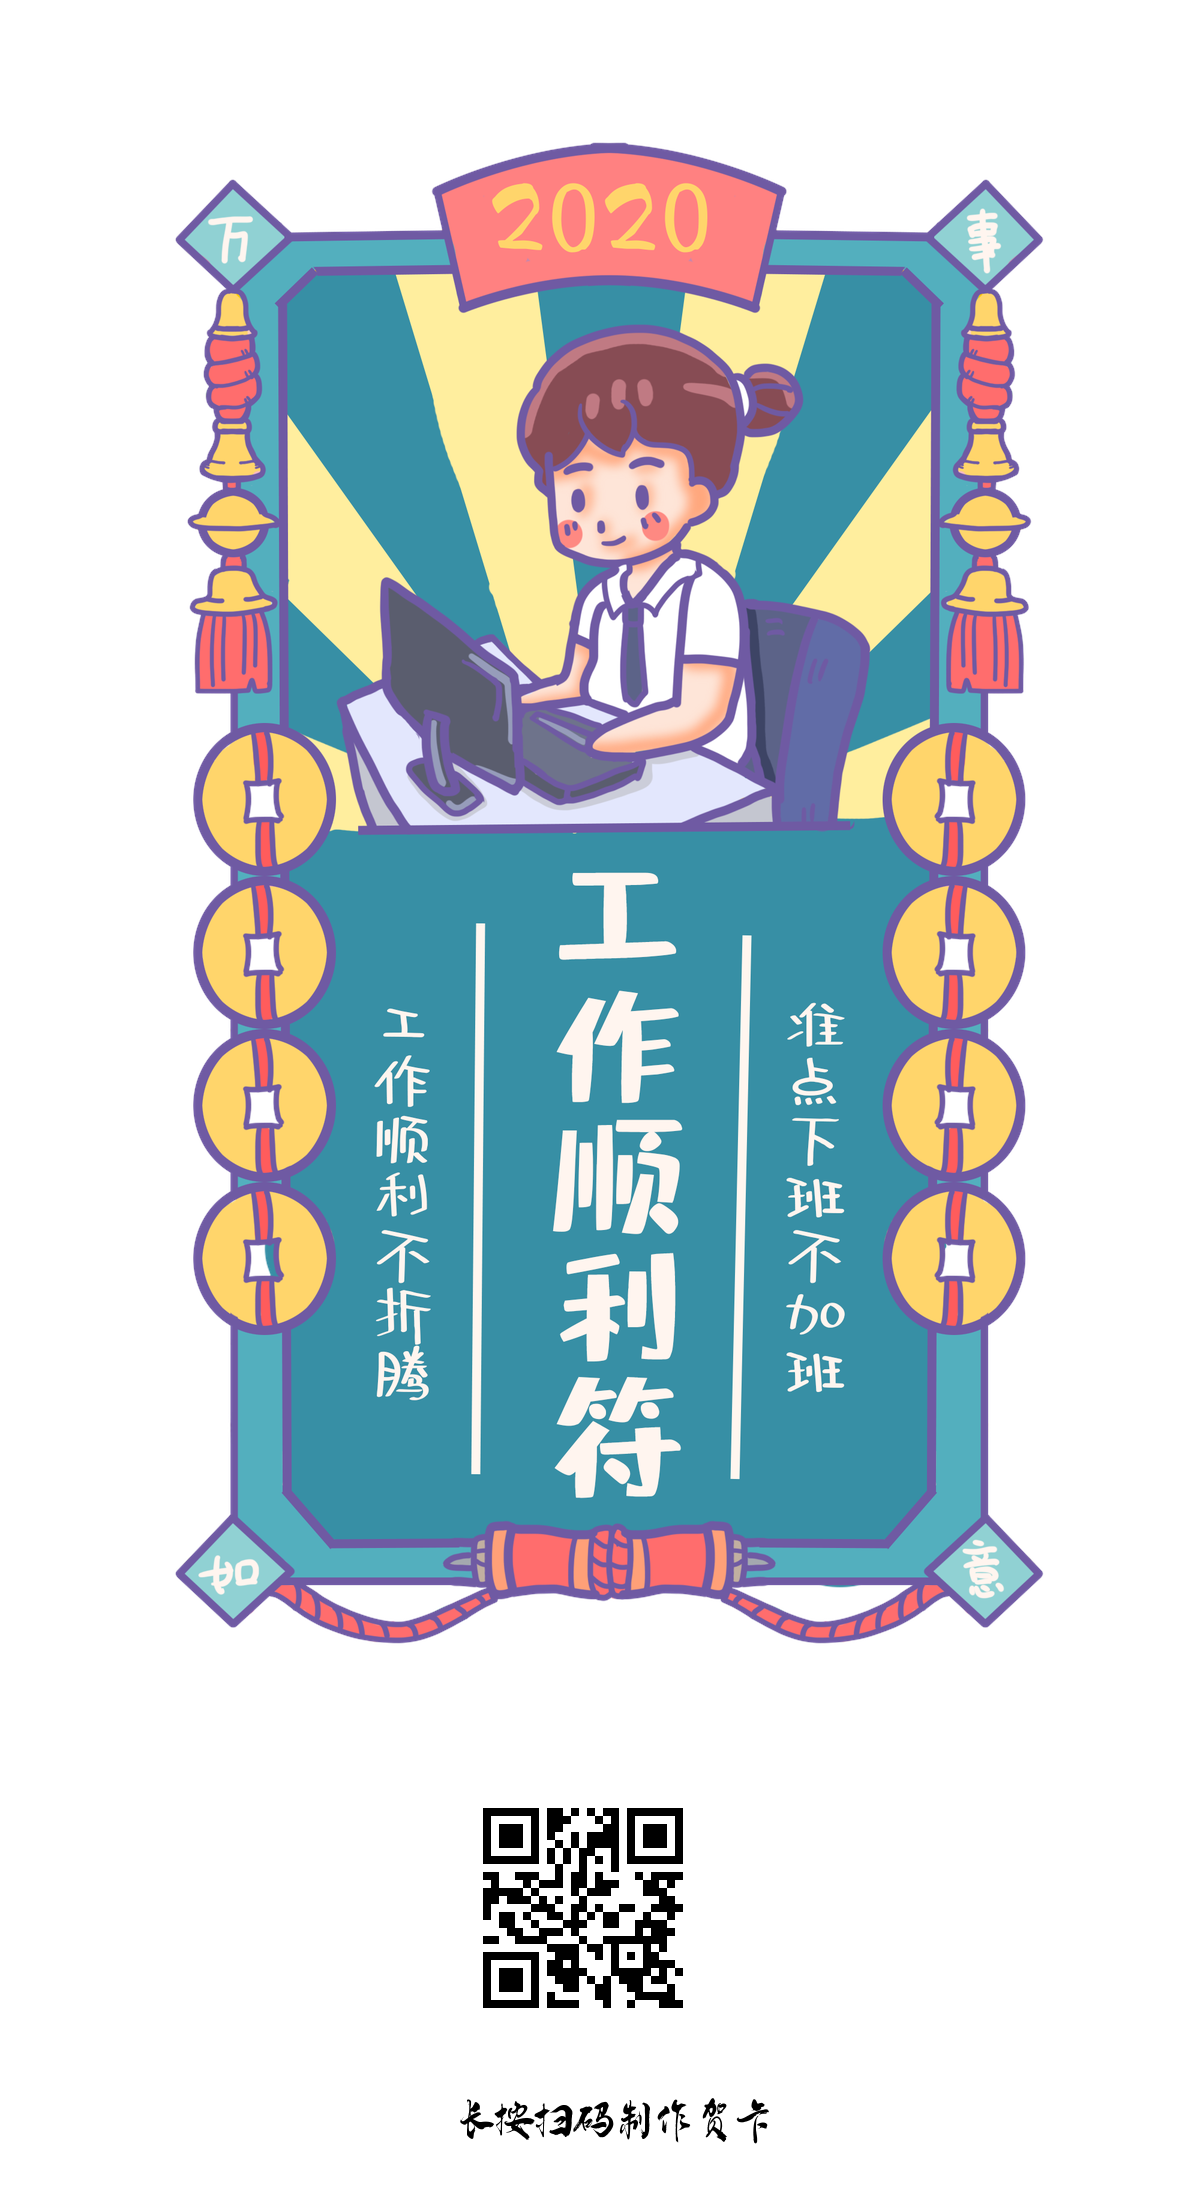
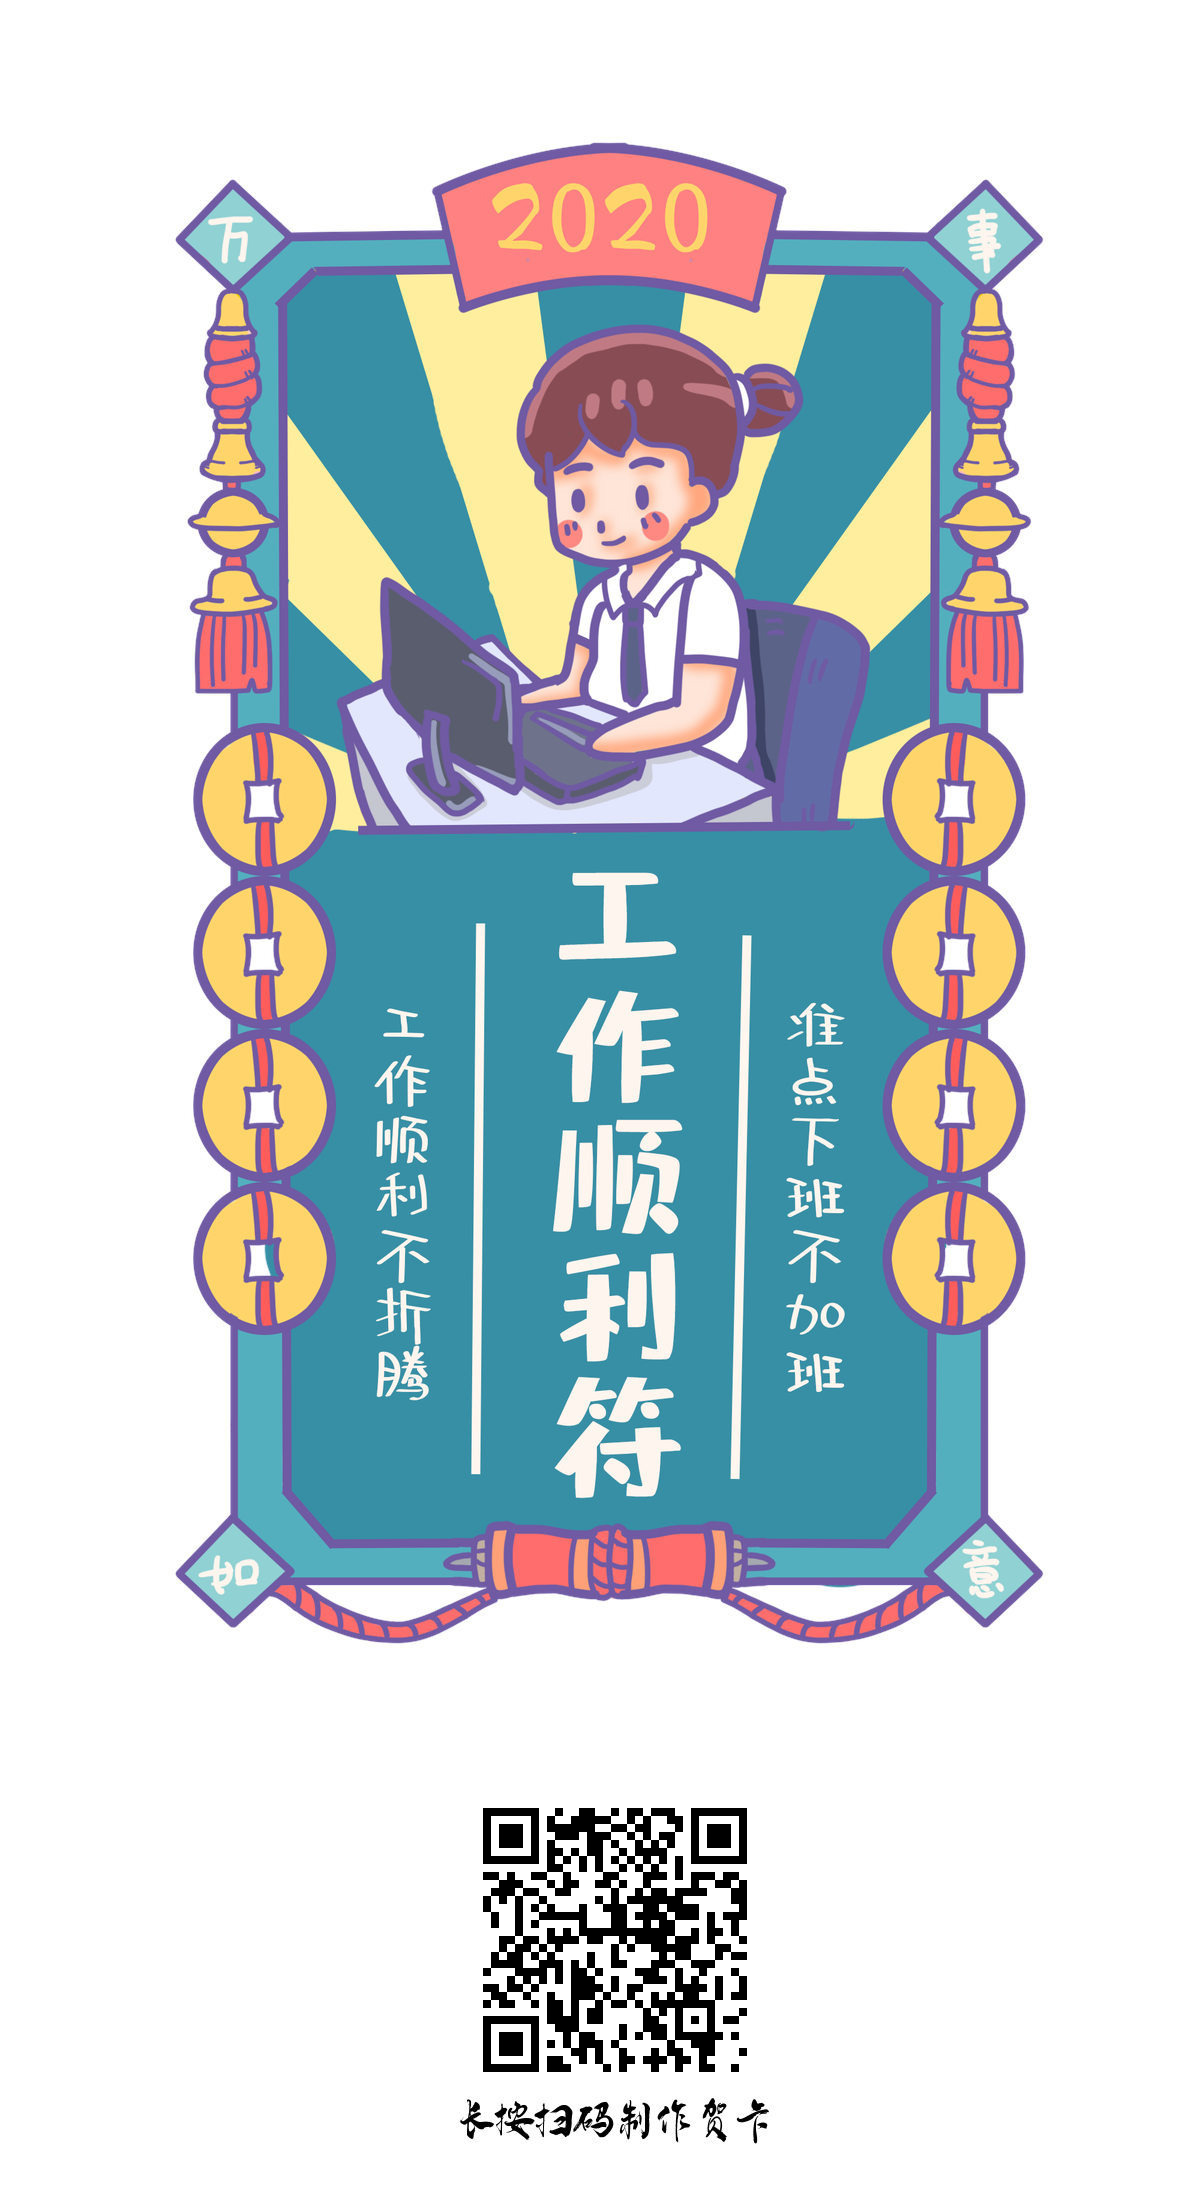
fix pic

Changed region(s): [[0.4008, 0.8036, 0.6475, 0.9582]]

diff --git a/new_year_greeting_card/index.py b/new_year_greeting_card/index.py
@@ -103,7 +103,7 @@ def main_handler(event, context):
         temp_base_pic.paste(frame_pic, (0, 0), frame_pic)
         temp_base_pic.paste(title_pic, (320, 30), title_pic)
         temp_base_pic.paste(temp_watermark_pic, (77, int((1348 - int(watermark_pic_new_y)) / 2)), temp_watermark_pic)
-        temp_base_pic.paste(get_qrcode(symbol_file),  (355, 970), get_qrcode(symbol_file))
+        temp_base_pic.paste(get_qrcode(symbol_file),  (340, 950), get_qrcode(symbol_file))
         draw = ImageDraw.Draw(temp_base_pic)
         draw.text((75, 300), get_input_str(to_str + ":", font, draw), (0, 0, 0), font=font)
         temp_data = get_input_str(input_str, font, draw, True)

diff --git a/new_year_greeting_card/new_year_symbol.py b/new_year_greeting_card/new_year_symbol.py
@@ -24,7 +24,7 @@ for eve in os.listdir("./base/symbol_1"):
         temp_base_pic = Image.new('RGBA', (1200, 2200), (255, 255, 255))
         temp_pic = Image.open("./base/symbol_1/%s" % eve).convert("RGBA").resize((1200, 1800), Image.ANTIALIAS)
         temp_base_pic.paste(temp_pic, (0, 0), temp_pic)
-        url = "http://greetingcard.0duzhan.com/"
+        url = "http://serverless.0duzhan.com/app/new_year_greeting_card/"
         temp_base_pic.paste(get_qrcode(url), (475, 1800), get_qrcode(url))
         draw = ImageDraw.Draw(temp_base_pic)
         draw.text((455, 2100), "长按扫码制作贺卡", (0, 0, 0), font=ImageFont.truetype('./base/font/01.ttf', 40))
